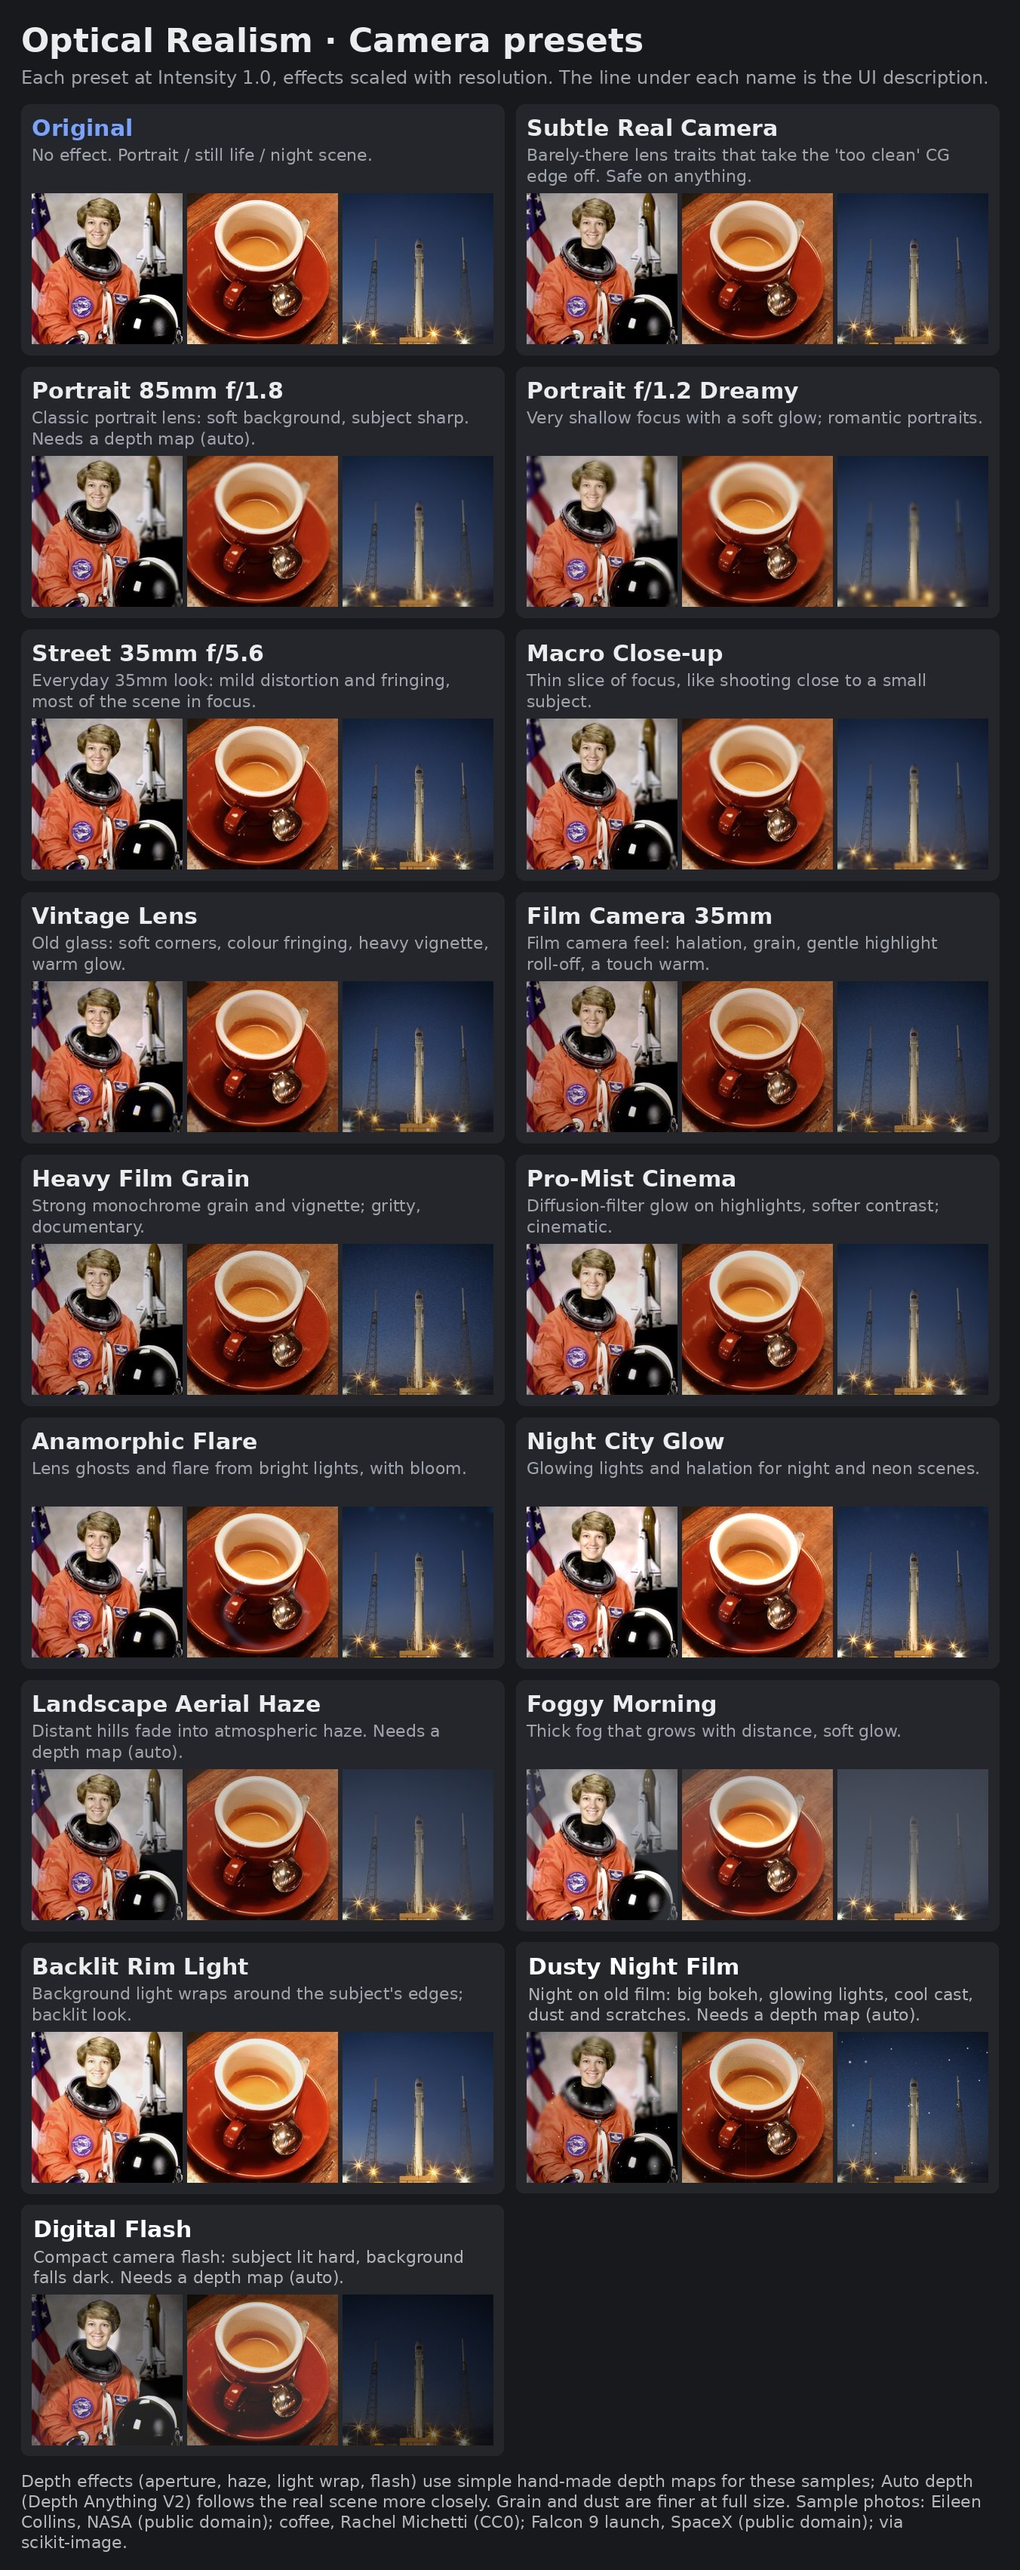
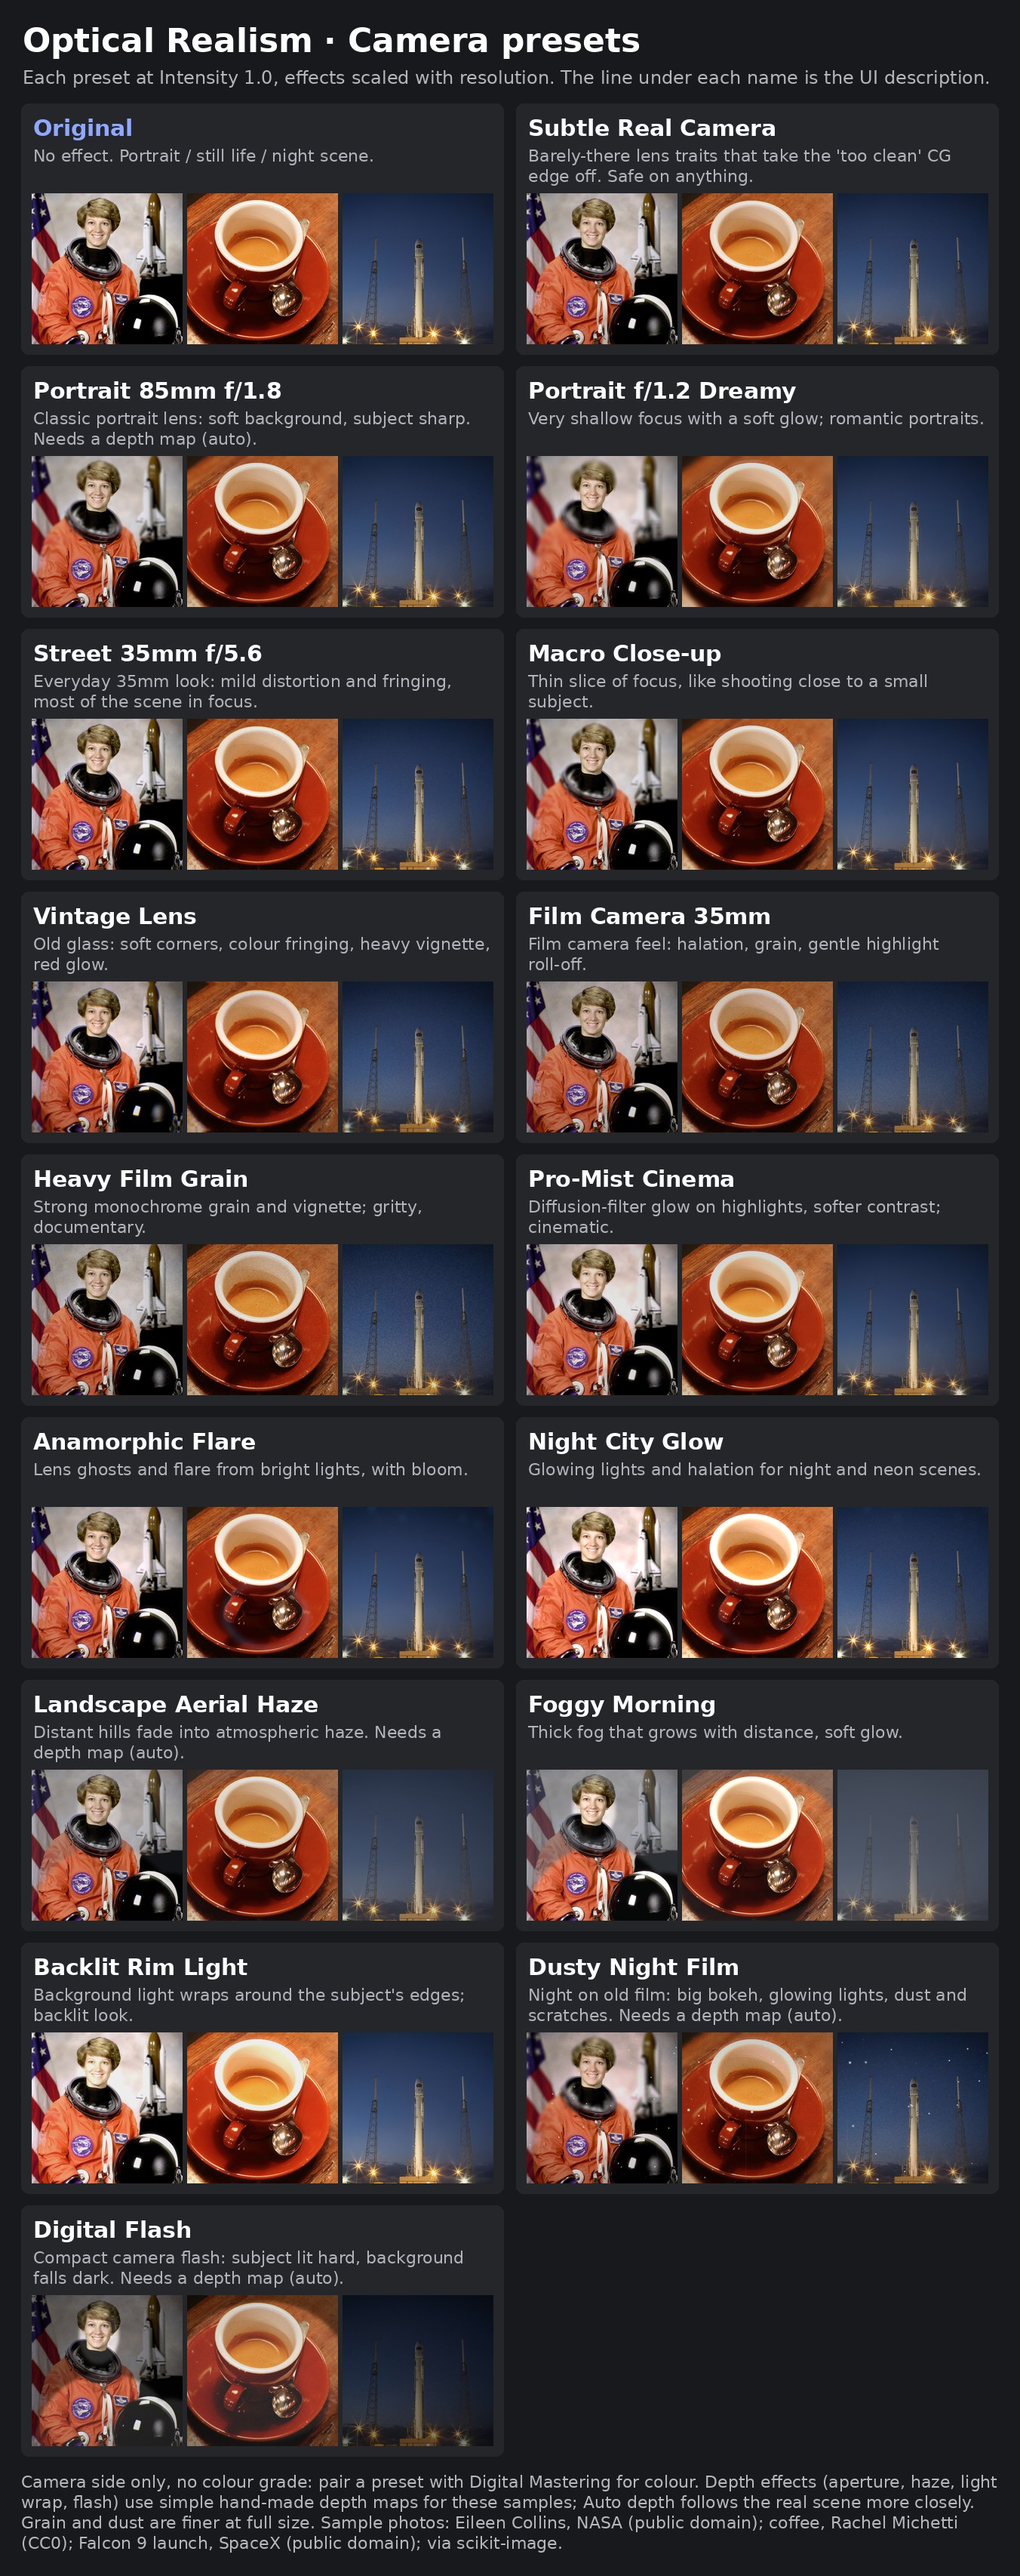
Hand temperature and tint to Digital Mastering; add grain size
Optical Realism is now the camera side only; colour grading lives in
Digital Mastering, which runs after it.

- Remove temperature and tint (controls, core white-balance stage).
  Old PNG info, legacy format included, still pastes; those values are
  ignored.
- Add Grain size to Film Emulation (taken over from Digital Mastering).
- Presets carry no colour: Film Camera 35mm, Dusty Night Film and Digital
  Flash lose their temperature/tint.
- README: division of labour and a preset pairing table.
- Preset reference re-rendered from scratch, all 16 presets.

Claude-Session: https://claude.ai/code/session_01VRYVbQCnCMuoqNc9wUeJiU

diff --git a/lib_or/presets.py b/lib_or/presets.py
@@ -1,7 +1,10 @@
 """Camera / lens looks. Each lists only what it changes. Picking one ticks the
 Enable box of every section it uses (that section's other controls at neutral)
 and unticks the rest, so presets never inherit leftovers. Intensity and the
-depth-map settings are never touched by a preset."""
+depth-map settings are never touched by a preset.
+
+Only what happens in front of and inside the camera: no colour grade. For
+colour, pair a look here with a Digital Mastering preset (see README)."""
 
 from .controls import compose
 
@@ -26,7 +29,7 @@ _P = {
         lens_distortion=0.030, field_curvature=0.35, chromatic_aberration=0.006, vignette=0.35,
         halation=0.08, grain=0.030),
     "Film Camera 35mm": dict(
-        chromatic_aberration=0.002, vignette=0.20, halation=0.08, temperature=0.10,
+        chromatic_aberration=0.002, vignette=0.20, halation=0.08,
         grain=0.040, highlight_rolloff=0.30),
     "Heavy Film Grain": dict(
         grain=0.060, mono_grain=True, vignette=0.20, highlight_rolloff=0.20),
@@ -45,10 +48,10 @@ _P = {
         light_wrap=0.25, bloom=0.10, halation=0.05, highlight_rolloff=0.15),
     "Dusty Night Film": dict(
         aperture="f/1.4", bloom=0.20, halation=0.18, promist=0.05, vignette=0.30,
-        temperature=-0.10, tint=-0.05, grain=0.035, dust=0.45, scratches=0.15, highlight_rolloff=0.20),
+        grain=0.035, dust=0.45, scratches=0.15, highlight_rolloff=0.20),
     "Digital Flash": dict(
         flash=0.70, flash_reach=0.45, lens_distortion=0.010, chromatic_aberration=0.002, vignette=0.12,
-        temperature=-0.05, grain=0.020),
+        grain=0.020),
 }
 
 PRESETS = {name: compose(p) for name, p in _P.items()}
@@ -60,8 +63,8 @@ DESCRIPTIONS = {
     "Portrait f/1.2 Dreamy": "Very shallow focus with a soft glow; romantic portraits.",
     "Street 35mm f/5.6": "Everyday 35mm look: mild distortion and fringing, most of the scene in focus.",
     "Macro Close-up": "Thin slice of focus, like shooting close to a small subject.",
-    "Vintage Lens": "Old glass: soft corners, colour fringing, heavy vignette, warm glow.",
-    "Film Camera 35mm": "Film camera feel: halation, grain, gentle highlight roll-off, a touch warm.",
+    "Vintage Lens": "Old glass: soft corners, colour fringing, heavy vignette, red glow.",
+    "Film Camera 35mm": "Film camera feel: halation, grain, gentle highlight roll-off.",
     "Heavy Film Grain": "Strong monochrome grain and vignette; gritty, documentary.",
     "Pro-Mist Cinema": "Diffusion-filter glow on highlights, softer contrast; cinematic.",
     "Anamorphic Flare": "Lens ghosts and flare from bright lights, with bloom.",
@@ -69,7 +72,7 @@ DESCRIPTIONS = {
     "Landscape Aerial Haze": "Distant hills fade into atmospheric haze. Needs a depth map (auto).",
     "Foggy Morning": "Thick fog that grows with distance, soft glow.",
     "Backlit Rim Light": "Background light wraps around the subject's edges; backlit look.",
-    "Dusty Night Film": "Night on old film: big bokeh, glowing lights, cool cast, dust and scratches. "
+    "Dusty Night Film": "Night on old film: big bokeh, glowing lights, dust and scratches. "
                         "Needs a depth map (auto).",
     "Digital Flash": "Compact camera flash: subject lit hard, background falls dark. Needs a depth map "
                      "(auto).",

diff --git a/optical_realism_core.py b/optical_realism_core.py
@@ -315,9 +315,8 @@ def apply_optical_realism(
     depth_offset: float = 0.0,
     # 5. Sensor & Film
     vignette_intensity: float = 0.0,
-    color_temperature: float = 0.0,
-    tint: float = 0.0,
     grain_power: float = 0.0,
+    grain_size: float = 1.0,
     monochrome_grain: bool = False,
     highlight_rolloff: float = 0.0,
     dust_amount: float = 0.0,
@@ -414,20 +413,6 @@ def apply_optical_realism(
             depth_mask.permute(0, 3, 1, 2), grid,
             mode="bilinear", padding_mode="reflection", align_corners=False
         ).permute(0, 2, 3, 1)
-
-    # --- 4. WHITE BALANCE (Color Temperature + Tint) ---
-    if abs(color_temperature) > 1e-6 or abs(tint) > 1e-6:
-        r_gain = 1.0 + (color_temperature * 0.15) + (tint * 0.1)
-        g_gain = 1.0 - (tint * 0.15)
-        b_gain = 1.0 - (color_temperature * 0.15) + (tint * 0.1)
-
-        luma_preservation = (0.299 * r_gain + 0.587 * g_gain + 0.114 * b_gain)
-        r_gain /= luma_preservation
-        g_gain /= luma_preservation
-        b_gain /= luma_preservation
-
-        gains = torch.tensor([r_gain, g_gain, b_gain], device=device).view(1, 1, 1, 3)
-        final_image = torch.clamp(final_image * gains, 0.0, 1.0)
 
     # --- 5. DEPTH OF FIELD ---
     if f_stop != "Manual":
@@ -623,9 +608,18 @@ def apply_optical_realism(
         if seed is not None:
             gen = torch.Generator(device=final_image.device)
             gen.manual_seed(int(seed) & 0x7FFFFFFFFFFFFFFF)
-        raw_noise = torch.randn(final_image.shape, generator=gen,
-                                device=final_image.device, dtype=final_image.dtype)
-        raw_noise_p = raw_noise.permute(0, 3, 1, 2)
+        if abs(grain_size - 1.0) < 1e-6:
+            raw_noise = torch.randn(final_image.shape, generator=gen,
+                                    device=final_image.device, dtype=final_image.dtype)
+            raw_noise_p = raw_noise.permute(0, 3, 1, 2)
+        else:
+            # Coarser (or finer) grain: noise on a grid 1/size of the frame,
+            # scaled back up, then brought back to unit strength.
+            gh, gw = max(1, int(round(h / grain_size))), max(1, int(round(w / grain_size)))
+            raw_noise_p = torch.randn((b, c, gh, gw), generator=gen,
+                                      device=final_image.device, dtype=final_image.dtype)
+            raw_noise_p = F.interpolate(raw_noise_p, size=(h, w), mode="bicubic", align_corners=False)
+            raw_noise_p = raw_noise_p / raw_noise_p.std().clamp_min(1e-6)
         clumped = _blur(raw_noise_p, 3, 0.8)
         clumped = clumped.permute(0, 2, 3, 1) * 1.5
 

diff --git a/lib_or/controls.py b/lib_or/controls.py
@@ -90,9 +90,8 @@ CONTROLS = [
     C("lift_blacks", "Distance lift", 0.05, 0.0, 1.0, 0.01, info="Far shadows wash out to grey.", neutral=0.0),
     C("depth_offset", "Haze start", 0.25, -1.0, 1.0, 0.05, info="Higher pushes haze further back."),
     # --- film & sensor
-    C("temperature", "Temperature", 0.0, -1.0, 1.0, 0.01, info="- cool / + warm"),
-    C("tint", "Tint", 0.0, -1.0, 1.0, 0.01, info="- green / + magenta"),
     C("grain", "Grain", 0.015, 0.0, 0.5, 0.001, info="0.01-0.03 is subtle, 0.05+ is heavy.", neutral=0.0),
+    C("grain_size", "Grain size", 1.0, 0.5, 3.0, 0.1, info="How coarse the grain is. 1 = one pixel."),
     C("mono_grain", "Monochrome grain", False, kind="checkbox"),
     C("highlight_rolloff", "Highlight roll-off", 0.10, 0.0, 1.0, 0.01,
       info="Compresses harsh digital whites like film does.", neutral=0.0),
@@ -131,7 +130,7 @@ GROUPS = {
                 "num_layers", "min_blur", "max_blur"],
     "en_light": ["bloom", "promist", "halation", "flare", "light_wrap", "flash", "flash_reach"],
     "en_atmos": ["haze", "lift_blacks", "depth_offset"],
-    "en_film": ["temperature", "tint", "grain", "mono_grain", "highlight_rolloff", "dust", "scratches",
+    "en_film": ["grain", "grain_size", "mono_grain", "highlight_rolloff", "dust", "scratches",
                 "date_stamp", "stamp_text", "stamp_format", "stamp_position", "stamp_size"],
 }
 GROUP_OF = {n: g for g, names in GROUPS.items() for n in names}
@@ -234,7 +233,8 @@ _LEGACY = [
      ("bloom", "flare", "light_wrap", "promist", "halation")),
     (rf"Atmos\(Haze:{_NUM} Lift:{_NUM} Off:{_NUM}\)", ("haze", "lift_blacks", "depth_offset")),
     (rf"Film\(Vig:{_NUM} Temp:{_NUM} Tint:{_NUM} Grain:{_NUM} Mono:(\w+) Roll:{_NUM}\)",
-     ("vignette", "temperature", "tint", "grain", "mono_grain", "highlight_rolloff")),
+     # Temperature and tint moved to Digital Mastering; old values are dropped.
+     ("vignette", None, None, "grain", "mono_grain", "highlight_rolloff")),
 ]
 
 
@@ -259,6 +259,8 @@ def from_infotext(text):
         if not m:
             continue
         for k, v in zip(names, m.groups()):
+            if k is None:
+                continue
             if k == "focus":
                 if v == "Auto":
                     values["auto_focus"] = True

diff --git a/scripts/optical_realism.py b/scripts/optical_realism.py
@@ -34,7 +34,7 @@ if not BLUR_AVAILABLE:
 # Effect strengths that Intensity multiplies.
 SCALED = ["lens_distortion", "chromatic_aberration", "field_curvature", "vignette",
           "bloom", "promist", "halation", "flare", "light_wrap", "haze", "lift_blacks",
-          "temperature", "tint", "grain", "highlight_rolloff", "flash", "dust", "scratches"]
+          "grain", "highlight_rolloff", "flash", "dust", "scratches"]
 SCALED_INT = ["gaussian_amount", "lens_radius", "motion_size", "max_blur"]
 
 
@@ -101,9 +101,8 @@ def render(image, s, depth_map, seed=None):
         lift_blacks=min(v["lift_blacks"], 1.0),
         depth_offset=s["depth_offset"],
         vignette_intensity=min(v["vignette"], 1.0),
-        color_temperature=v["temperature"],
-        tint=v["tint"],
         grain_power=v["grain"],
+        grain_size=s["grain_size"],
         monochrome_grain=s["mono_grain"],
         highlight_rolloff=v["highlight_rolloff"],
         dust_amount=min(v["dust"], 1.5),

diff --git a/lib_or/layout.py b/lib_or/layout.py
@@ -37,9 +37,9 @@ TABS = [
     },
     {
         "title": "Film Emulation",
-        "guide": "Colour temperature and tint, grain (same seed = same grain), softer highlights, dust, "
-                 "scratches and a date stamp.",
-        "basic": ["en_film", "temperature", "tint", "grain", "mono_grain", "highlight_rolloff",
+        "guide": "Grain (same seed = same grain), softer highlights, dust, scratches and a date stamp. "
+                 "Colour and white balance belong to a grading extension (Digital Mastering).",
+        "basic": ["en_film", "grain", "grain_size", "mono_grain", "highlight_rolloff",
                   "dust", "scratches"],
         "stamp": ["date_stamp", "stamp_text", "stamp_format", "stamp_position", "stamp_size"],
     },

diff --git a/README.md b/README.md
@@ -33,6 +33,37 @@ unticks the rest, and never touches Intensity or the depth settings.
 (portrait, still life, night scene). Scroll inside the box, or click the
 picture to open it full size in a new tab. Click the button again to fold it.
 
+## Optical Realism and Digital Mastering
+
+The two extensions split the work the way a photo is made, and no control
+exists in both:
+
+| Optical Realism (runs first) | Digital Mastering (runs second) |
+|---|---|
+| The camera: lens geometry, vignette, depth of field, blur, bloom, flare, halation, light wrap, flash, haze, grain, dust, scratches, date stamp, highlight roll-off | The grade: exposure, contrast, white balance (temperature, tint), saturation, vibrance, split toning, CDL, LUT, selective colour, clarity, sharpen, anti-banding, JPEG repair |
+
+Each preset covers only its own side, so a look is one preset from each. Pairs
+that go together:
+
+| Optical Realism | Digital Mastering |
+|---|---|
+| Subtle Real Camera | Natural: Clean Polish |
+| Portrait 85mm f/1.8 | Portrait: Studio Skin |
+| Portrait f/1.2 Dreamy | Portrait: Soft Glamour |
+| Street 35mm f/5.6 | Natural: Vivid Pop or Film: Cool Slide Stock |
+| Macro Close-up | Natural: HDR Detail |
+| Vintage Lens | Film: Faded Vintage or Film: Instant Photo |
+| Film Camera 35mm | Film: Warm Portrait Stock |
+| Heavy Film Grain | B&W: Classic Silver or B&W: Hard Noir |
+| Pro-Mist Cinema | Cinema: Teal & Orange |
+| Anamorphic Flare | Cinema: Blockbuster |
+| Night City Glow | Mood: Cyberpunk Neon |
+| Landscape Aerial Haze | Mood: Golden Hour |
+| Foggy Morning | Natural: Soft Matte or Mood: Blue Hour |
+| Backlit Rim Light | Mood: Golden Hour |
+| Dusty Night Film | Cinema: Dusty Night or Cinema: Moody Dark |
+| Digital Flash | Mood: Flash Snapshot |
+
 ## Notes
 
 - Depth of field, haze, light wrap, flash and depth-aware blur read a depth map.
@@ -73,9 +104,8 @@ picture to open it full size in a new tab. Click the button again to fold it.
   LED date into a corner or along the left edge. Empty text = today's date in
   the chosen format; it draws digits and `' / . - :` only. Off by default, also
   in the *Digital Flash* preset. Intensity does not dim it.
-- These are the camera side only. Colour grading (exposure, contrast,
-  split toning) is left to a grading extension such as Digital Mastering,
-  which runs after this one.
+- Temperature and tint moved to Digital Mastering; when an older image is
+  pasted they are ignored. **Grain size** (Film Emulation) came the other way.
 - With Auto depth off and no map supplied, only the depth effects are skipped.
 - *Extra blur* needs `blurgenerator` (installed by `install.py`).
 
